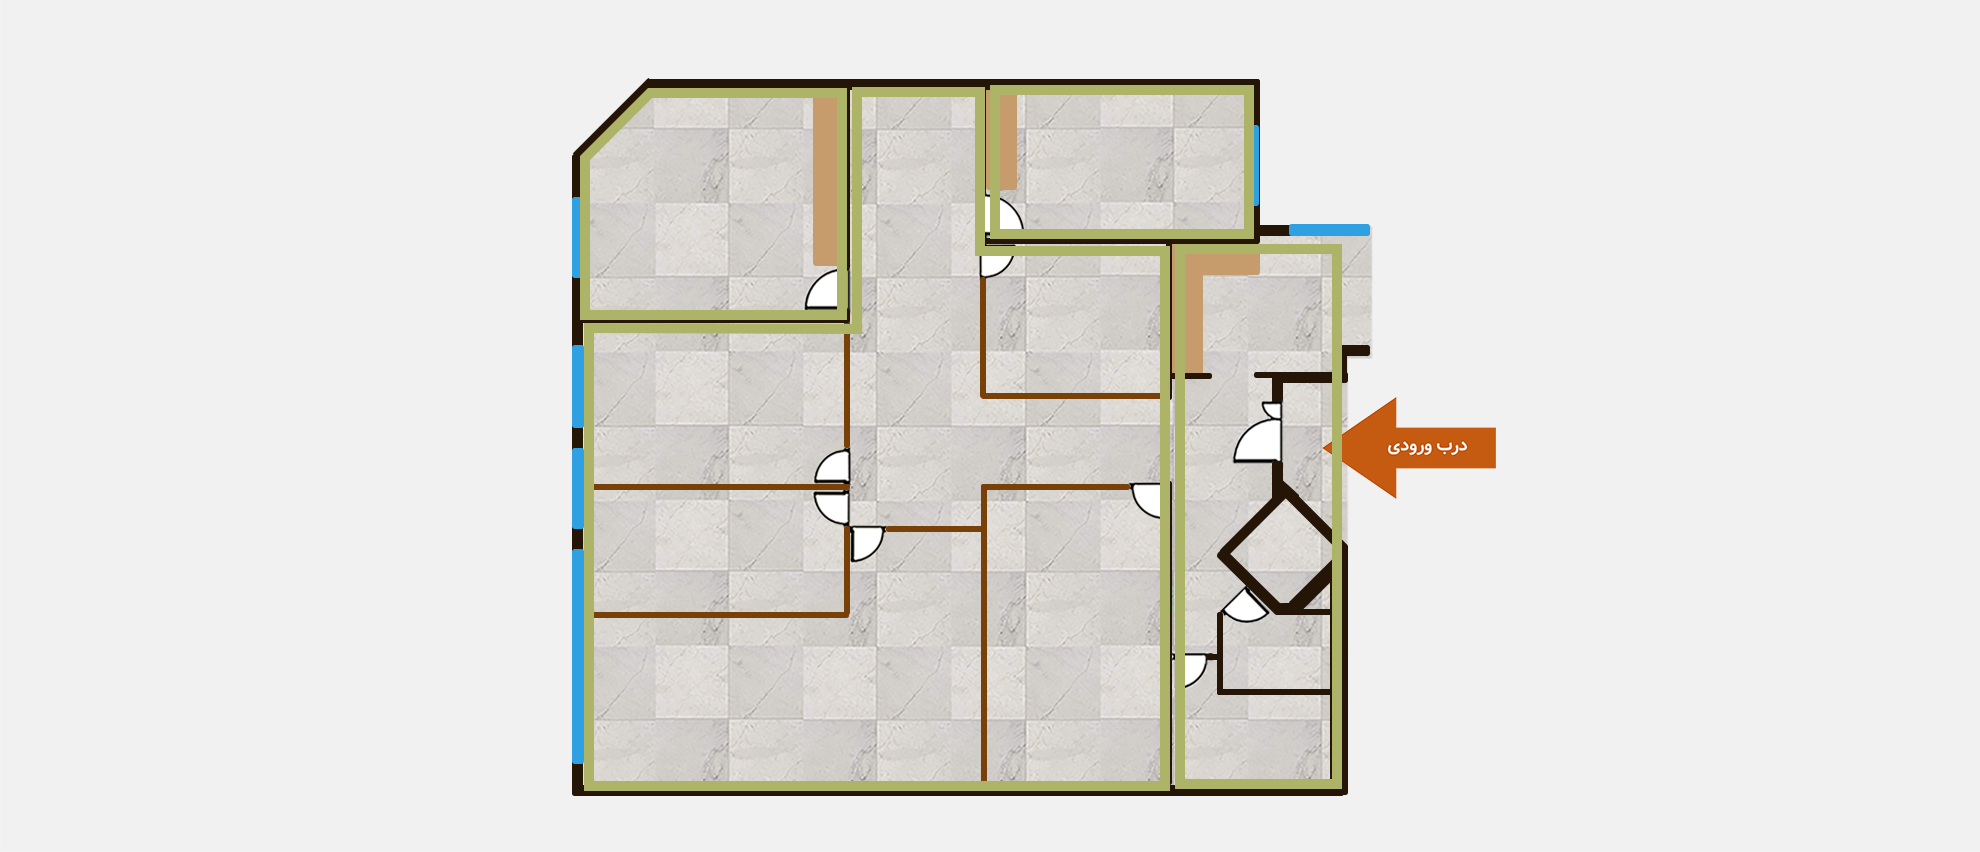
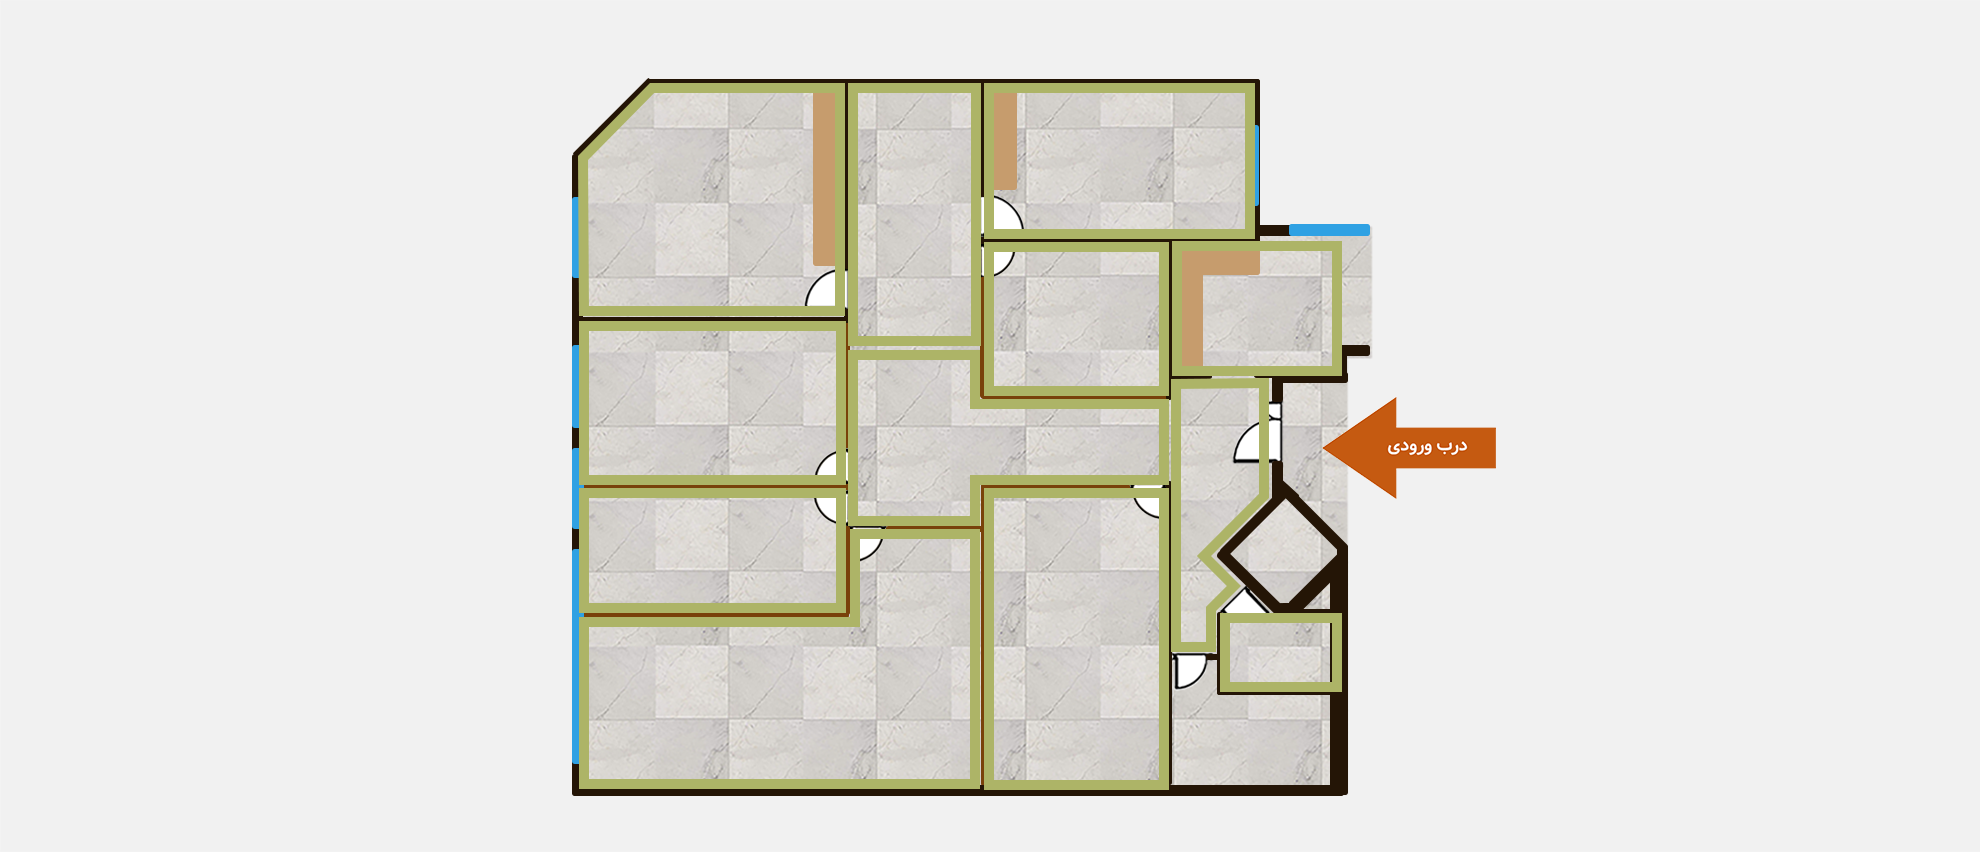
v1.2.0

Changed region(s): [[0.2773, 0.0915, 0.6778, 0.946]]

diff --git a/Floor 2/Floor-Lmap_R.html b/Floor 2/Floor-Lmap_R.html
@@ -3,7 +3,7 @@
 
     <head>
         <meta charset="utf-8">
-        <title>Floor2 Lamp Left</title>
+        <title>Floor2 Lamp Right</title>
         <link rel="stylesheet" href="Style.css">
         <meta name="viewport" content="width=device-width, initial-scale=1">
         <script type="text/javascript" src="js/jquery-3.3.1.min.js"></script>
@@ -12,21 +12,20 @@
     
     <body>
         <div class="position-div" >
-            <img class="map cndition-img" src="Map-L-Final-floor2-Big.png" usemap="#map">
+            <img class="map cndition-img" src="Map-R-Final-floor2-Big.png" usemap="#map">
             <map name="map">
-                <area id="map1" class="group" href="#" coords="990,90,1247,232" shape="rect" data-maphilight='{"strokeColor":"e4f908","strokeWidth":15,"fillColor":"ecf494","fillOpacity":0.6}'>
-                <area id="map2" class="group" href="#" coords="991,247,1163,389" shape="rect" data-maphilight='{"strokeColor":"e4f908","strokeWidth":15,"fillColor":"ecf494","fillOpacity":0.6}'>
-                <area id="map3" class="group" href="#" coords="1177,248,1336,370" shape="rect" data-maphilight='{"strokeColor":"e4f908","strokeWidth":15,"fillColor":"ecf494","fillOpacity":0.6}'>
-                <area id="map4" class="group" href="#" coords="857,89,974,340" shape="rect" data-maphilight='{"strokeColor":"e4f908","strokeWidth":15,"fillColor":"ecf494","fillOpacity":0.6}'>
-                <area id="map5" class="group" href="#" coords="587,327,841,477" shape="rect" data-maphilight='{"strokeColor":"e4f908","strokeWidth":15,"fillColor":"ecf494","fillOpacity":0.6}'>
-                <area id="map6" class="group" href="#" coords="587,494,841,605" shape="rect" data-maphilight='{"strokeColor":"e4f908","strokeWidth":15,"fillColor":"ecf494","fillOpacity":0.6}'>
-                <area id="map7" class="group" href="#" coords="991,493,1163,784" shape="rect" data-maphilight='{"strokeColor":"e4f908","strokeWidth":15,"fillColor":"ecf494","fillOpacity":0.6}'>
-                <area id="map8" class="group" href="#" coords="1227,620,1336,684" shape="rect" data-maphilight='{"strokeColor":"e4f908","strokeWidth":15,"fillColor":"ecf494","fillOpacity":0.6}'>
-                <area id="map9" class="group" href="#" coords="585,160,654,90,841,90,838,312,587,312" shape="poly" data-maphilight='{"strokeColor":"e4f908","strokeWidth":15,"fillColor":"ecf494","fillOpacity":0.6}'>
-                <area id="map10" class="group" href="#" coords="851,355,974,355,975,404,1163,404,1161,479,976,479,974,521,853,521" shape="poly" data-maphilight='{"strokeColor":"e4f908","strokeWidth":15,"fillColor":"ecf494","fillOpacity":0.6}'>
-                <area id="map11" class="group" href="#" coords="855,537,976,537,974,784,586,784,586,623,855,623" shape="poly" data-maphilight='{"strokeColor":"e4f908","strokeWidth":15,"fillColor":"ecf494","fillOpacity":0.6}'>
-                <area id="map12" class="group" href="#" coords="1214,647,1214,612,1235,586,1205,556,1264,495,1264,385,1179,385,1177,645" shape="poly" data-maphilight='{"strokeColor":"e4f908","strokeWidth":15,"fillColor":"ecf494","fillOpacity":0.6}'>
-            </map>
+                <area id="map1" class="group" href="#" coords="1113,90,1374,312" shape="rect" data-maphilight='{"strokeColor":"e4f908","strokeWidth":15,"fillColor":"ecf494","fillOpacity":0.6}'>
+                <area id="map2" class="group" href="#" coords="1113,326,1374,562" shape="rect" data-maphilight='{"strokeColor":"e4f908","strokeWidth":15,"fillColor":"ecf494","fillOpacity":0.6}'>
+                <area id="map3" class="group" href="#" coords="1024,579,1372,781" shape="rect" data-maphilight='{"strokeColor":"e4f908","strokeWidth":15,"fillColor":"ecf494","fillOpacity":0.6}'>
+                <area id="map4" class="group" href="#" coords="985,89,1096,366" shape="rect" data-maphilight='{"strokeColor":"e4f908","strokeWidth":15,"fillColor":"ecf494","fillOpacity":0.6}'>
+                <area id="map5" class="group" href="#" coords="802,246,968,365" shape="rect" data-maphilight='{"strokeColor":"e4f908","strokeWidth":15,"fillColor":"ecf494","fillOpacity":0.6}'>
+                <area id="map6" class="group" href="#" coords="710,90,968,229" shape="rect" data-maphilight='{"strokeColor":"e4f908","strokeWidth":15,"fillColor":"ecf494","fillOpacity":0.6}'>
+                <area id="map7" class="group" href="#" coords="626,248,788,365" shape="rect" data-maphilight='{"strokeColor":"e4f908","strokeWidth":15,"fillColor":"ecf494","fillOpacity":0.6}'>
+                <area id="map8" class="group" href="#" coords="804,548,1002,781" shape="rect" data-maphilight='{"strokeColor":"e4f908","strokeWidth":15,"fillColor":"ecf494","fillOpacity":0.6}'>
+                <area id="map9" class="group" href="#" coords="626,626,782,781" shape="rect" data-maphilight='{"strokeColor":"e4f908","strokeWidth":15,"fillColor":"ecf494","fillOpacity":0.6}'>
+                <area id="map10" class="group" href="#" coords="804,387,1096,387,1096,562,1024,562,1024,529,804,529" shape="poly" data-maphilight='{"strokeColor":"e4f908","strokeWidth":15,"fillColor":"ecf494","fillOpacity":0.6}'>
+                <area id="map11" class="group" href="#" coords="690,387,785,387,785,609,713,609,765,556,690,479" shape="poly" data-maphilight='{"strokeColor":"e4f908","strokeWidth":15,"fillColor":"ecf494","fillOpacity":0.6}'>
+                </map>
         </div>
 
         <script type="text/javascript" src="js/imageMapResizer.min.js"></script>
@@ -34,7 +33,6 @@
             $('map').imageMapResize();
         </script>
 
-        
         <script>
             $(function() {
                 $('.map').maphilight({
@@ -247,25 +245,6 @@
                     var data = $('#map11').mouseout().data('maphilight') || {};
                     data.alwaysOn = !data.alwaysOn;
                     $('#map11').data('maphilight', data).trigger('alwaysOn.maphilight');
-                });
-            });
-        </script>
-        <script>
-            $(function() {
-                $('.map').maphilight({
-                    fillColor: '008800'
-                });
-                $('#map12link').click(function(e) {
-                    e.preventDefault();
-                    var data = $('#map12').data('maphilight') || {};
-                    data.neverOn = !data.neverOn;
-                    $('#map12').data('maphilight', data);
-                });
-                $('#map12,#map1link2').click(function(e) {
-                    e.preventDefault();
-                    var data = $('#map12').mouseout().data('maphilight') || {};
-                    data.alwaysOn = !data.alwaysOn;
-                    $('#map12').data('maphilight', data).trigger('alwaysOn.maphilight');
                 });
             });
         </script>
